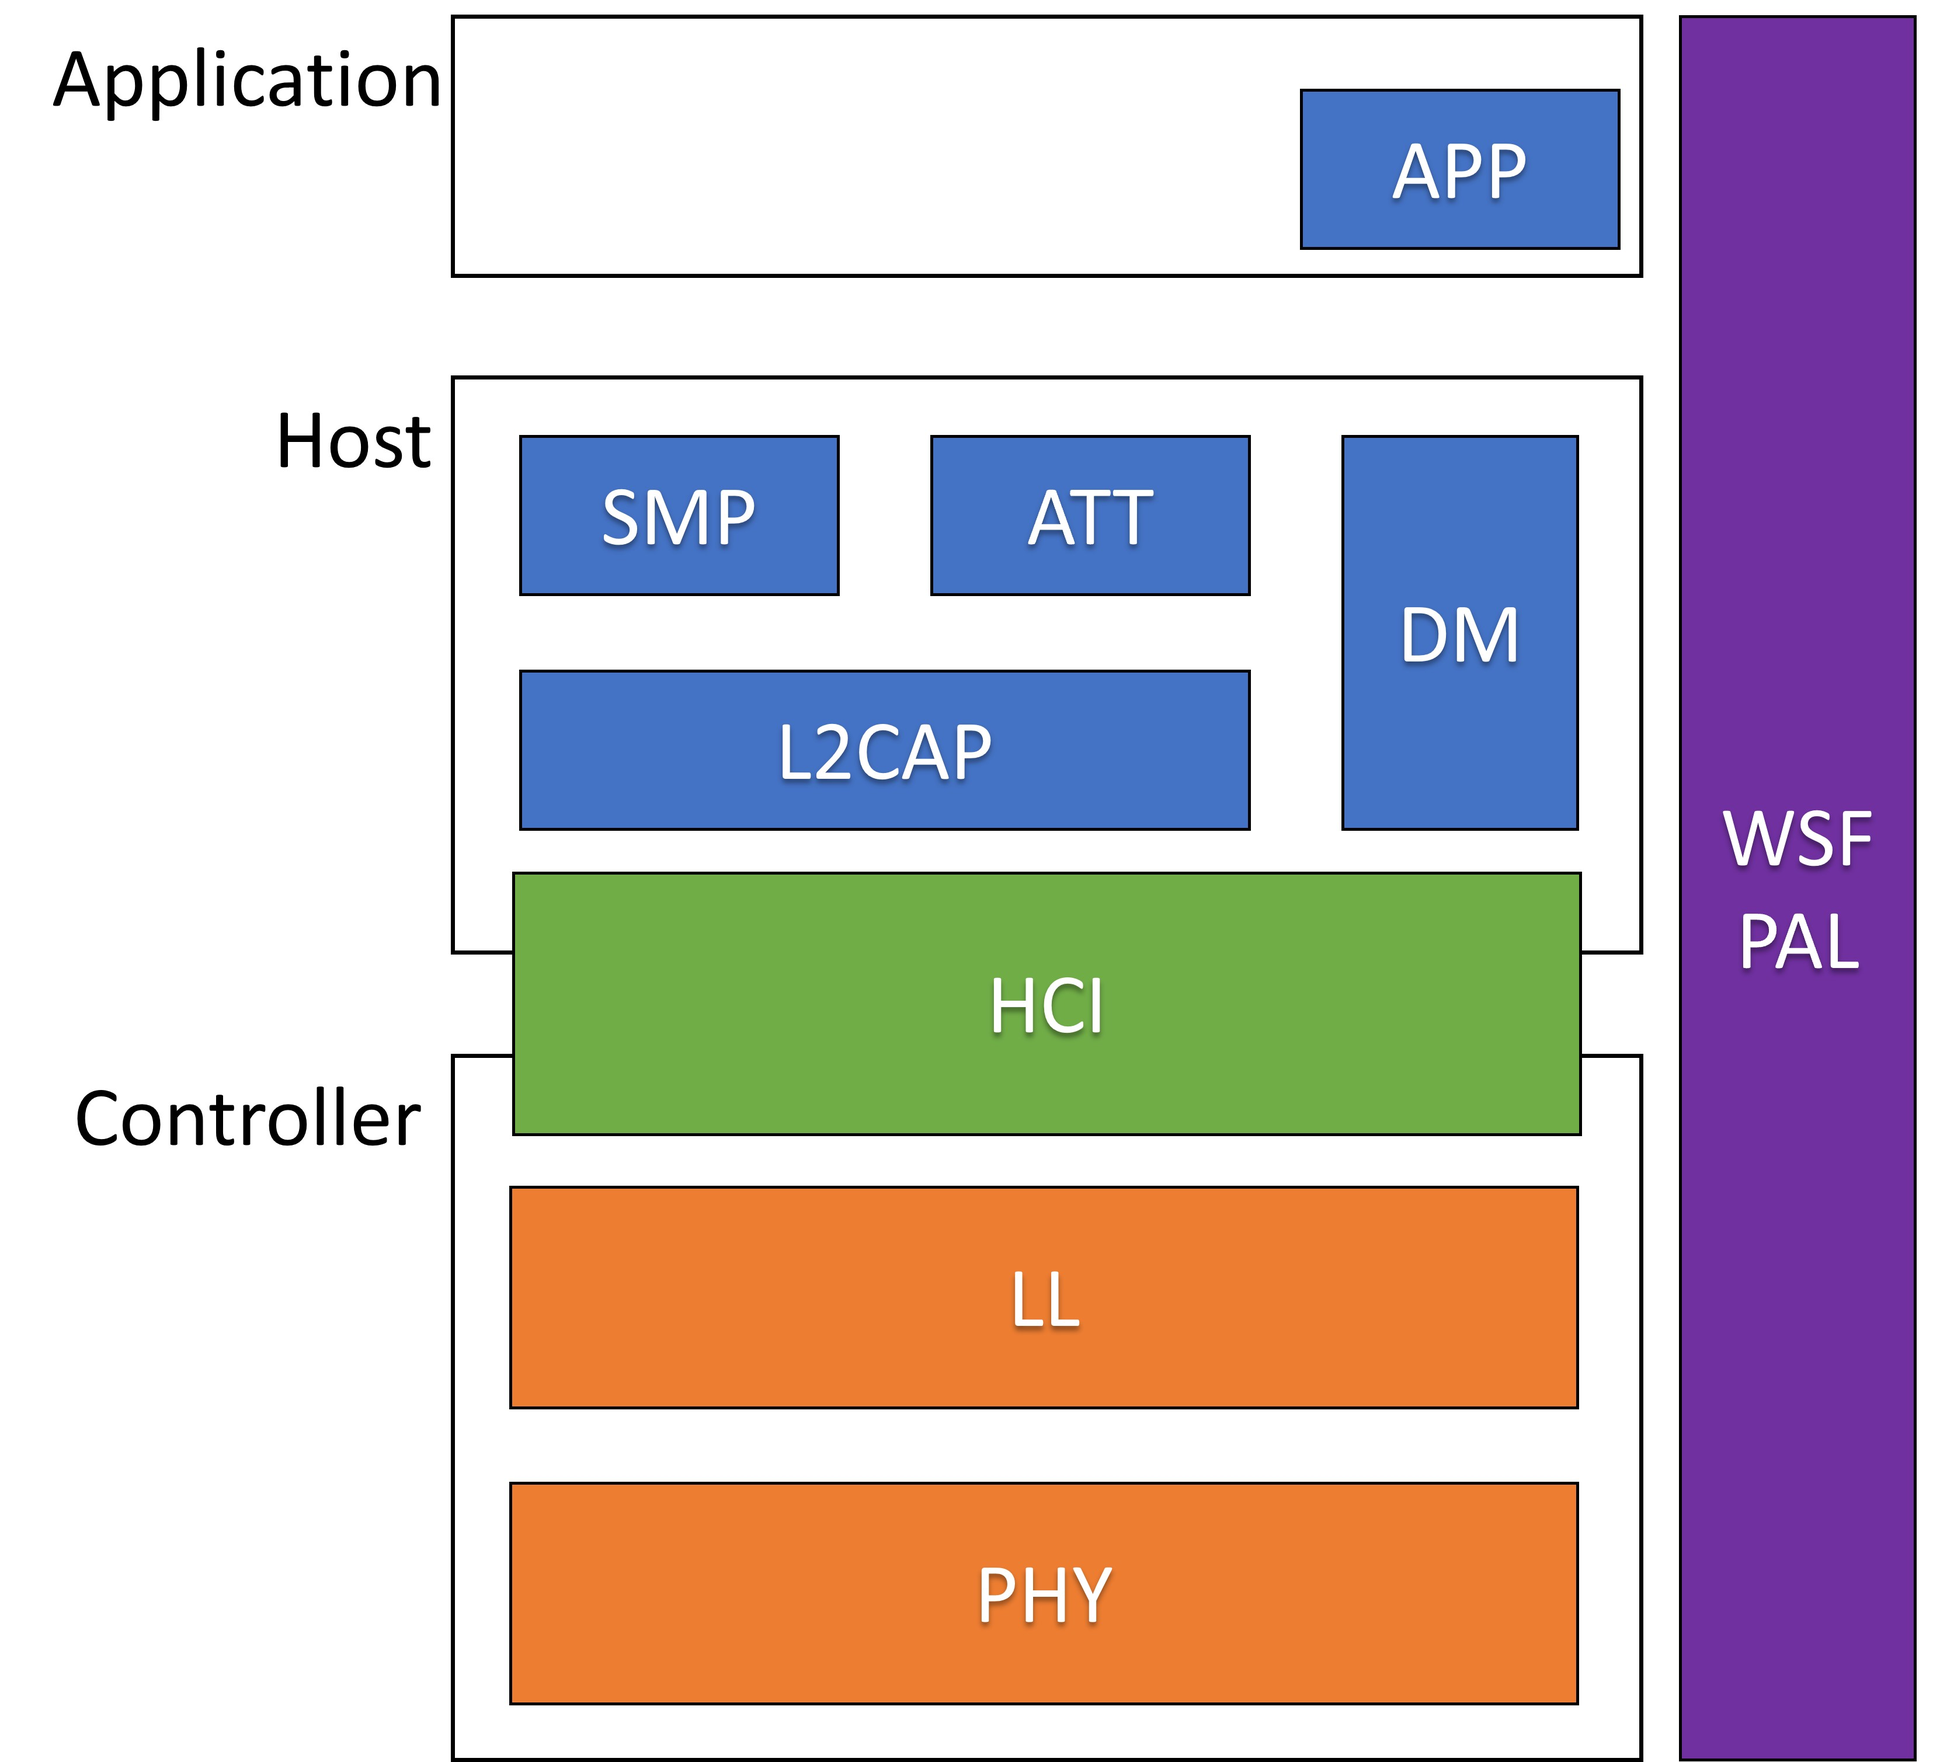
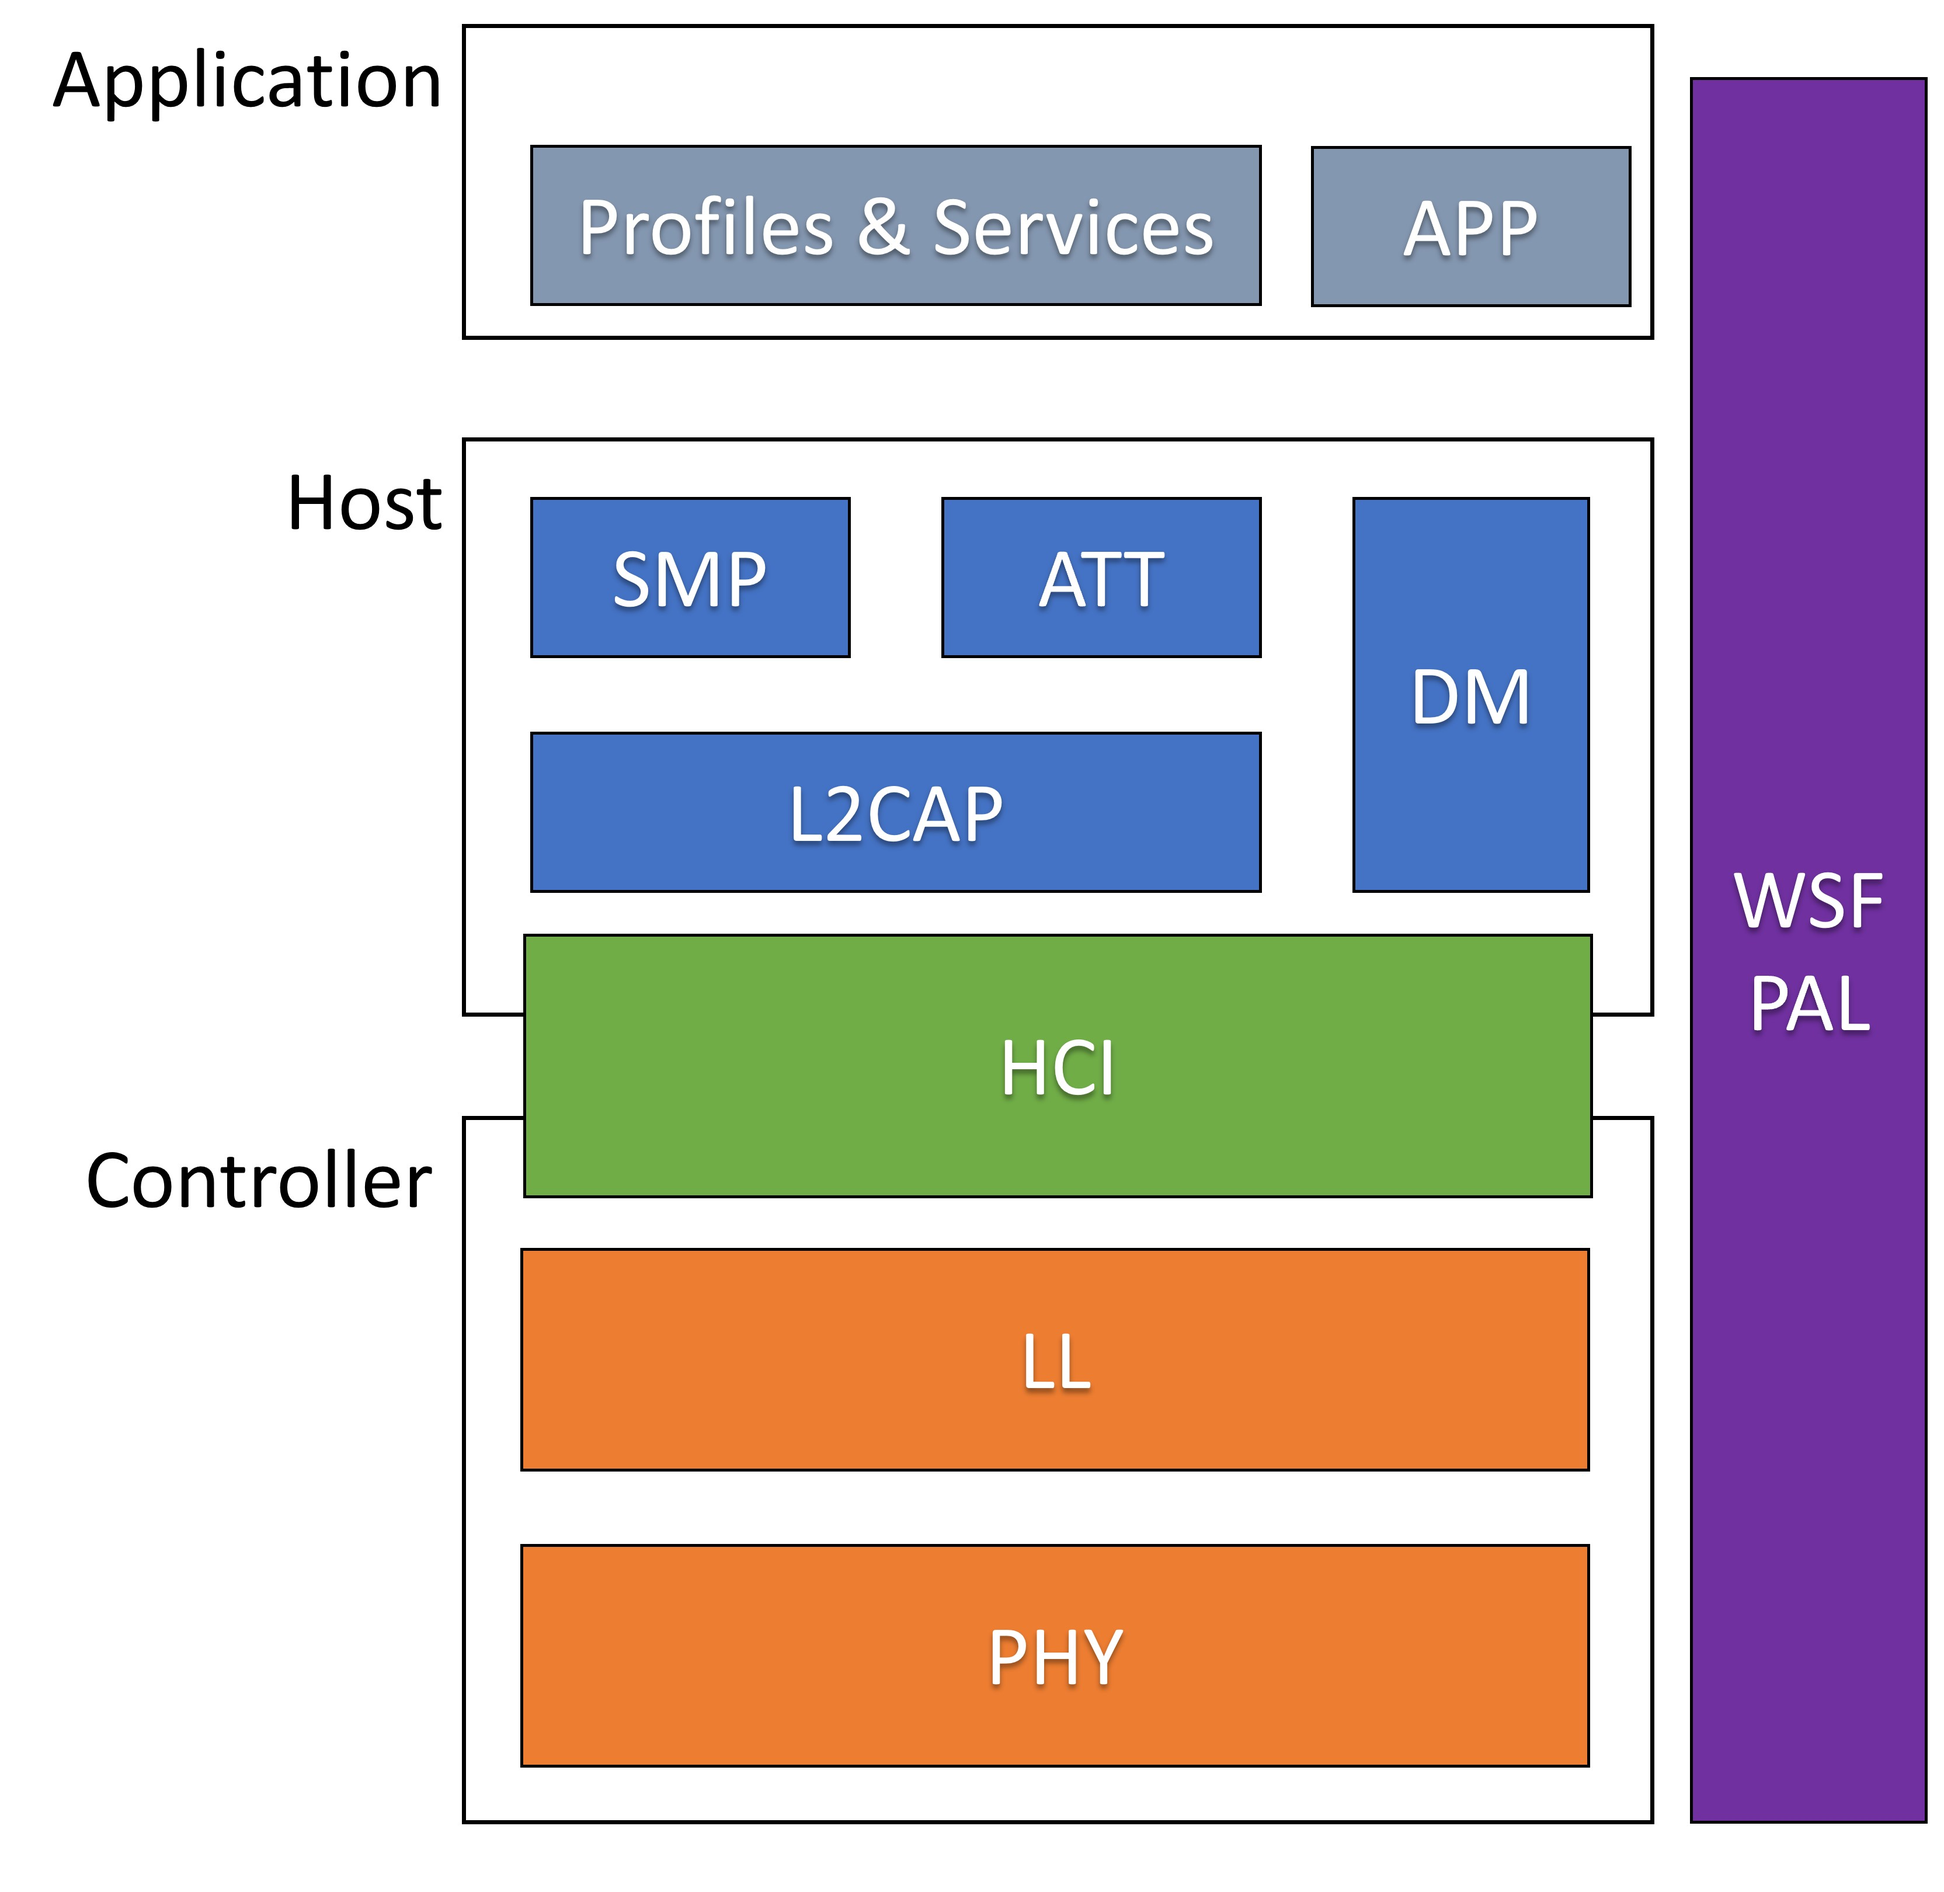
Adding profiles and services.

diff --git a/Libraries/Cordio/docs/Applications/BLE_periph.md b/Libraries/Cordio/docs/Applications/BLE_periph.md
@@ -2,21 +2,21 @@
 
 This is the simplest application that should be used when getting started. It will advertise as "Periph" and accepts connection requests.
 
-## Board Selection
+## Board Setup
 
 Before building firmware you must select the correct value for BOARD in project.mk, e.g. "EvKit_V1".
 
-## LEDs
+### LEDs
 
 The red LED will indicate that an error assertion has occurred.  
 
 The green LED indicates CPU activity. When the LED is on, the CPU is active, when the LED
 is off, the CPU is in sleep mode.
 
-## Required Connections
+### Required Connections
 Connect a USB cable between the PC and the (USB/PWR - UART) connector. An anteanna or wired connection can be used if SMA is available on the board. 
 
-## Trace Serial Port
+### Trace Serial Port
 When TRACE is enabled in the project.mk, the on-board USB-to-UART adapter can
 be used to view the trace messages and interact with the application. Open a serial port terminal with
 the following settings.
@@ -97,5 +97,17 @@ __echo (on|off)__  Enables or disables the input echo. On by default.
 __btn (ID) (s|m|l|x)__  Simulates button presses. Example: "btn 1 s" for a short button press on button 1.  
 __pin (ConnID) (Pin Code)__  Used to input the pairing pin code.  
 
-## Push buttons
+### Push buttons
 Push buttons are not implemented in this example.
+
+## Stack Initialization
+
+## GAP Peripheral / Slave Role
+
+## GATT Server
+
+## Callbacks
+
+## Adding WSF events and handlers
+
+## MTU size and Throughput

diff --git a/Libraries/Cordio/docs/ARCHITECTURE.md b/Libraries/Cordio/docs/ARCHITECTURE.md
@@ -1,6 +1,6 @@
 # Architecture
 
-This document describes the Cordio software architecture.
+This document describes the Cordio software architecture. Refer to the Bluetooth specificaion Volume 1, Part A for additional information regarding the Bluetooth architecture.
 
 <p align="center">
   <img width="400" src="./pics/Software_Stack.jpg">
@@ -12,6 +12,14 @@ The App Framework performs many operations common to Bluetooth LE embedded appli
 * Application-level device, connection, and security management.
 * Simple user interface abstractions for button press handling, sounds, display, and other user feedback.
 * An abstracted device database for storing bonding data and other device parameters.
+
+## Profiles and Services
+
+The GATT Profile specifies the structure in which profile data is exchanged. This structure defines basic elements such as services and characteristics, used in a profile. The top level of the hierarchy is a profile. A profile is composed of one or more services necessary to fulfill a use case. A service is composed of characteristics or references to other services. Each characteristic contains a value and may contain optional information about the value. The service and characteristic and the components of the characteristic (i.e., value and descriptors) contain the profile data and are all stored in Attributes on the server.
+
+<p align="center">
+  <img width="400" src="./pics/Profiles.PNG">
+</p>
 
 ## Wireless Stack Framework
 
